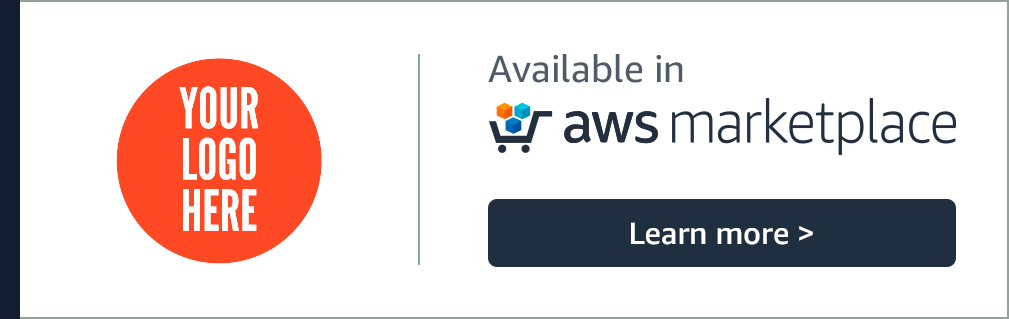
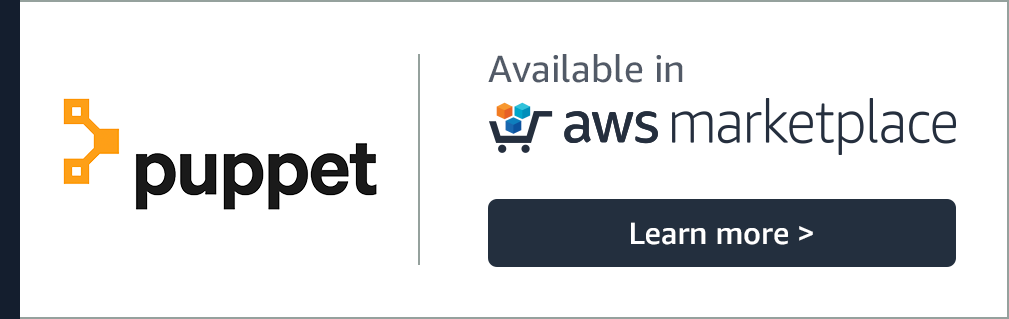
Adding MP trial instruction - incomplete

Changed region(s): [[0.0614, 0.1693, 0.3994, 0.8464], [0.4916, 0.3103, 0.5223, 0.4232]]

diff --git a/content/030_self_guided_setup/31_mp_trial.md b/content/030_self_guided_setup/31_mp_trial.md
@@ -1,0 +1,20 @@
+---
+title: "2. Marketplace Trial Sign Up"
+chapter: true
+weight: 11
+---
+## Signing up for Harness via AWS Marketplace
+1. Visit [Puppet Enterprise in AWS Marketplace](https://aws.amazon.com/marketplace/pp/prodview-u5vihcnqljdm4?trk=el_a134p000003yrYeAAI&trkCampaign=AWSMP_pdp_dev_x_dg&sc_channel=el&sc_campaign=el_awsmp_mult&sc_outcome=Marketplace)
+1. You'll land here ![Puppet Enterprise Marketplace](/images/marketplace-page.png)
+1. Click the **Try for free** button on the top right-hand corner.
+1. You may be prompted to sign in to the AWS account you just created, or the one you will be using for this workshop: ![AWS Signup](/images/aws-signin.png)
+1. Click the 14 Day Free Trial option and your page should look like this: ![Contract Config](/images/mp-contract-config.png)
+1. Click the **Create contract** button in the purchase box. **You will NOT be charged after the free trial**
+1. This pop-up box will appear: ![Contract Box](/images/contract.png)
+1. Click the **Accept contract** button.
+1. You have successfully signed up for Harness! ![Contract Success](/images/contract-success.png)
+1. Click the **Setup your account** button, and you'll land here:
+   ![Harness Signup](/images/harness-mp-signup.png)
+1. Once you've filled out the details, go to your [Harness dashboard](https://app.harness.io/)
+
+And that's it! You've are now done with signing up with Harness! Click the next button to proceed with requesting AWS credits so this workshop will be **FREE**. 

diff --git a/content/030_self_guided_setup/32_request_credit.md b/content/030_self_guided_setup/32_request_credit.md
@@ -1,5 +1,5 @@
 ---
-title: "2. AWS Credit Request"
+title: "3. AWS Credit Request"
 chapter: false
 weight: 12
 ---
@@ -12,14 +12,14 @@ will receive a confirmation email with an AWS Credit Code. Credits are
 available while supplies last.
   </td>
 
-  <td class="credit" style="width:30%"> <a href="https://pages.awscloud.com/awsmp-wsm-dev-workshop-series-credit-request.html?trk=lab_{partnerName}" target="_blank" class="credit-btn">Request AWS Credits</a>  </td>
+  <td class="credit" style="width:30%"> <a href="https://pages.awscloud.com/awsmp-wsm-dev-workshop-series-credit-request.html?trk=lab_puppet" target="_blank" class="credit-btn">Request AWS Credits</a>  </td>
 </tr>
 </table>
 
 <table class="credit" style="width:100%">
 <tr class="credit">
   <td class="credit" style="width:40%"> 
-      <a href="https://aws.amazon.com/marketplace/pp/B07PZY3369?&trk=el_a134p000003yrYeAAI&trkCampaign=AWSMP_pdp_dev_x_dg&sc_channel=el&sc_campaign=el_awsmp_mult&sc_outcome=Marketplace" target="_blank"><img src="/images/setup/available-in-awsmp-badge.png"></a>
+      <a href="https://aws.amazon.com/marketplace/pp/prodview-u5vihcnqljdm4?trk=el_a134p000003yrYeAAI&trkCampaign=AWSMP_pdp_dev_x_dg&sc_channel=el&sc_campaign=el_awsmp_mult&sc_outcome=Marketplace" target="_blank"><img src="/images/setup/available-in-awsmp-badge.png"></a>
   </td>
 
   <td class="credit" style="width:60%">

diff --git a/content/030_self_guided_setup/30_aws_setup_your_own.md b/content/030_self_guided_setup/30_aws_setup_your_own.md
@@ -9,7 +9,7 @@ weight: 10
 {{% children %}}
 
 {{% notice warning %}}
-You are responsible for the cost of the AWS services used while running this workshop in your AWS account. We highly recommend you to go to the [request AWS credit page](/030_self_guided_setup/30_request_credit.html) so you can run this workshop without any charge to you.
+You are responsible for the cost of the AWS services used while running this workshop in your AWS account. We highly recommend you to go to the [request AWS credit page](/030_self_guided_setup/32_request_credit.html) so you can run this workshop without any charge to you.
 {{% /notice %}}
 
 1. If you don't already have an AWS account with Administrator access: [create

diff --git a/content/099_survey/_index.md b/content/099_survey/_index.md
@@ -7,5 +7,5 @@ weight: 90
 
 # Survey
 
-To help us improve this product, please take some time to fill out the {{% button href="https://pages.awscloud.com/awsmp-wsm-dev-workshop-series-csat-lab-completion.html" icon="fas fa-poll" %}}Survey{{% /button %}}
+To help us improve this product, please take some time to fill out the {{% button href="https://pages.awscloud.com/awsmp-wsm-dev-workshop-series-csat-lab-completion.html?trk=lab_puppet" icon="fas fa-poll" %}}Survey{{% /button %}}
 

diff --git a/content/030_self_guided_setup/34_start_cloud9workspace.md b/content/030_self_guided_setup/34_start_cloud9workspace.md
@@ -1,5 +1,5 @@
 ---
-title: "3. Create a Workspace"
+title: "4. Create a Workspace"
 chapter: true
 weight: 14
 ---
